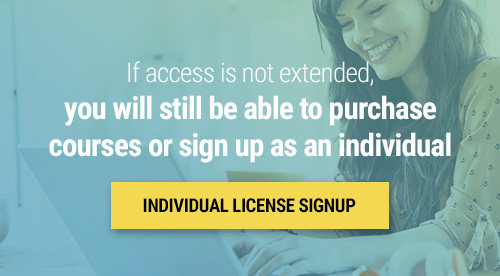
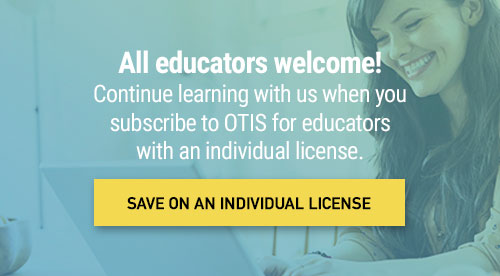
Updated home page covid popup

diff --git a/index_expired-license.php b/index_expired-license.php
@@ -12,10 +12,10 @@
             <img src="assets/images/covidPopExtendYour-License-OTIS.svg" style="margin-top: -6rem;"/>
             <div class="main-login-form margin-bottom">
               <br />
-              <h4 class="thin-heading bold text-center">If you are currently using OTIS for educators for FREE, your <u>access to our PD may be ENDING on JUNE 30th.</u></h4>
-              <p class="text-center"><a href="https://www.teq.com/Otis-for-gsuite-admins/">Contact us</a> about extending your subscription or purchase a discounted license here</p>
+              <h4 class="thin-heading bold text-center">We hope you enjoyed free access<br />to OTIS for educators!</u></h4>
+              <p class="text-center">Keep learning with us and prepare for the new school year when you <a href="https://www.teq.com/Otis-for-gsuite-admins/"><u>extend your license.</u></a></p>
               <a href="https://www.teq.com/Otis-for-gsuite-admins/">
-                <button type="button" class="login">EXTEND YOUR LICENSE TODAY</button>
+                <button type="button" class="login">PURCHASE A DISCOUNTED LICENSE TODAY</button>
               </a>
             </div>
           </div>
